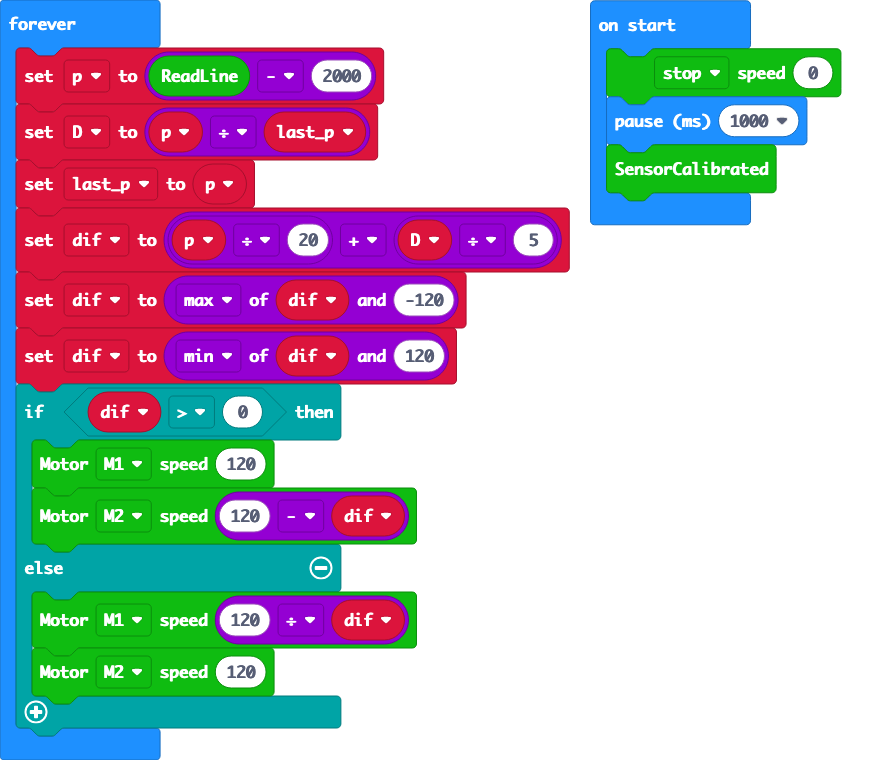
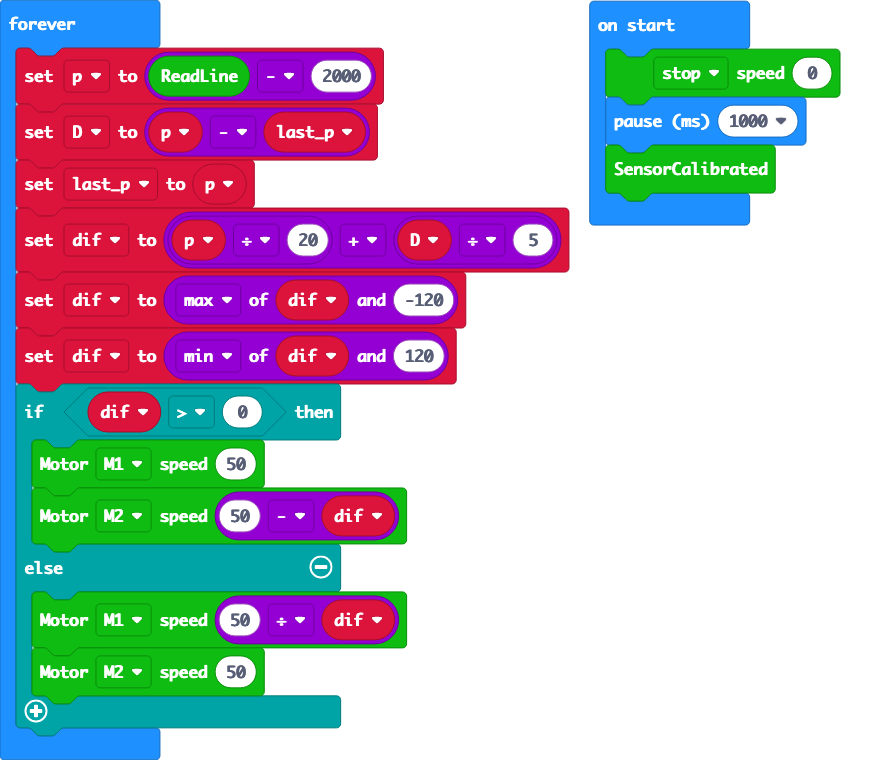
Update main.blocks, main.ts

diff --git a/main.ts b/main.ts
@@ -7,16 +7,16 @@ basic.pause(1000)
 AlphaBot2.SensorCalibrated()
 basic.forever(function () {
     p = AlphaBot2.readLine() - 2000
-    D = p / last_p
+    D = p - last_p
     last_p = p
     dif = p / 20 + D / 5
     dif = Math.max(dif, -120)
     dif = Math.min(dif, 120)
     if (dif > 0) {
-        AlphaBot2.MotorRun(Motors.M1, 120)
-        AlphaBot2.MotorRun(Motors.M2, 120 - dif)
+        AlphaBot2.MotorRun(Motors.M1, 50)
+        AlphaBot2.MotorRun(Motors.M2, 50 - dif)
     } else {
-        AlphaBot2.MotorRun(Motors.M1, 120 / dif)
-        AlphaBot2.MotorRun(Motors.M2, 120)
+        AlphaBot2.MotorRun(Motors.M1, 50 / dif)
+        AlphaBot2.MotorRun(Motors.M2, 50)
     }
 })
